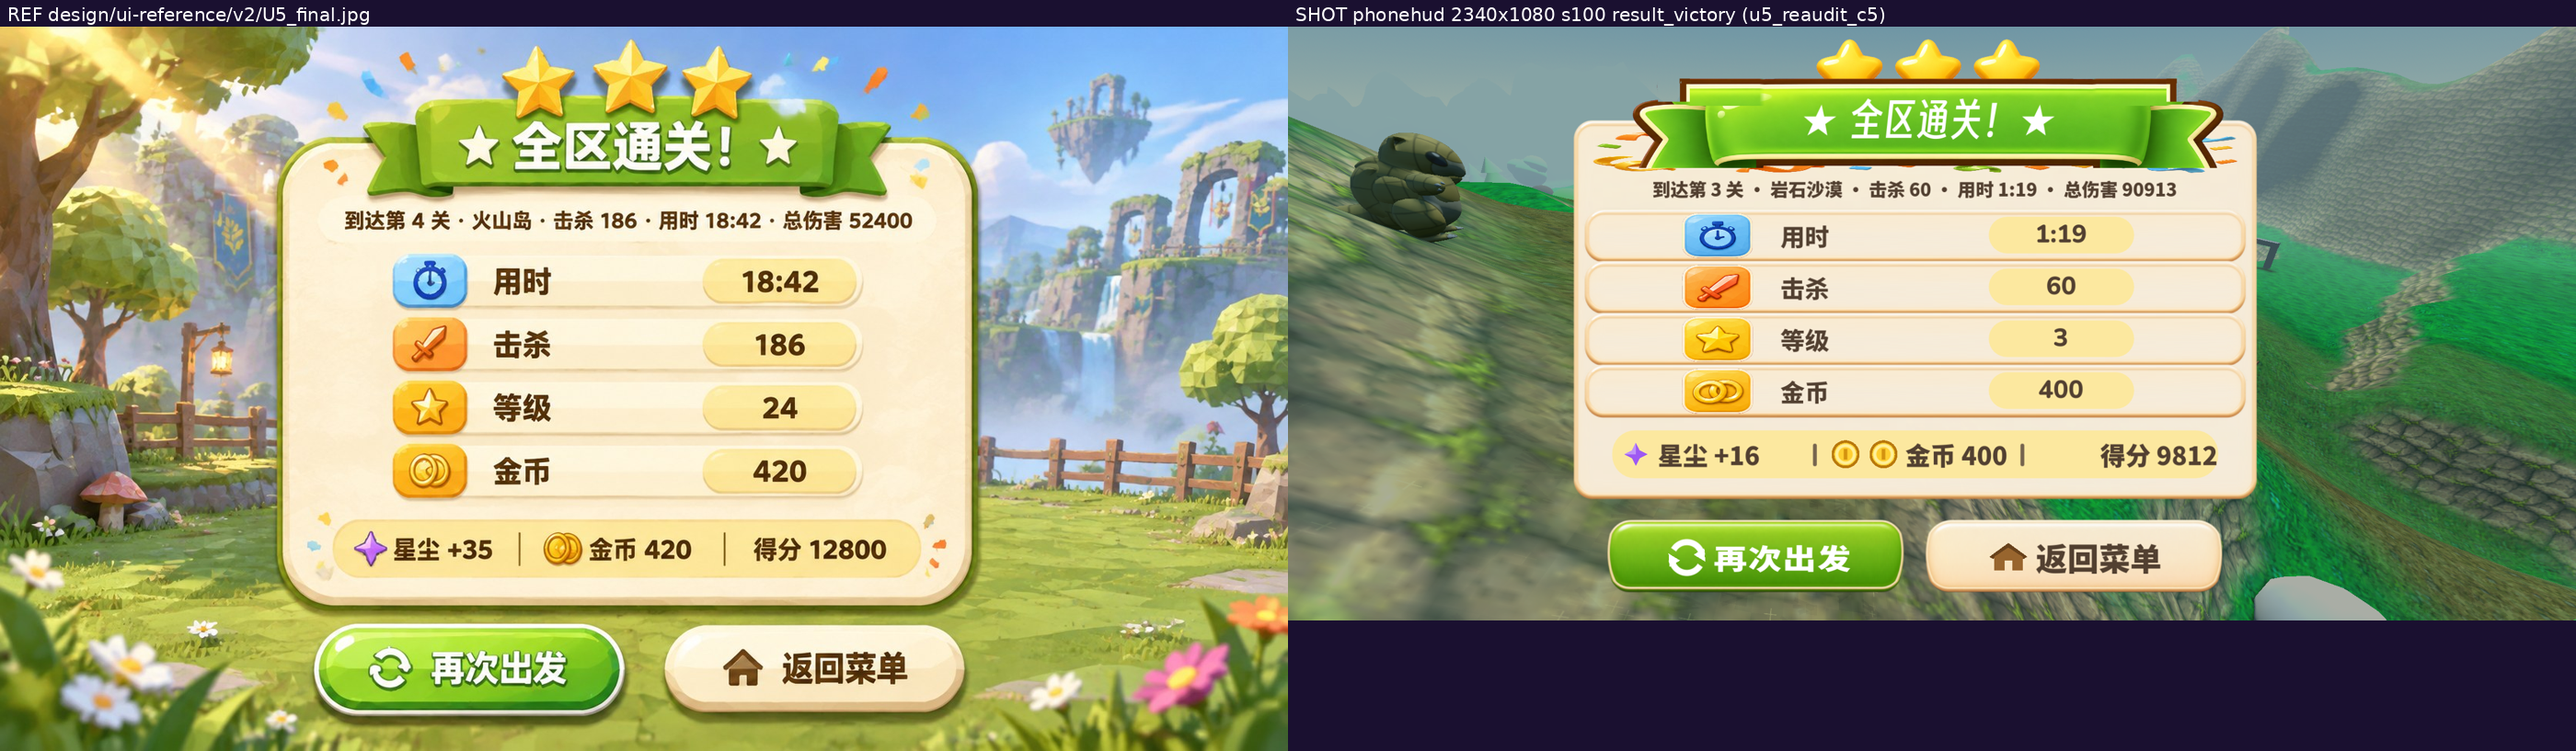
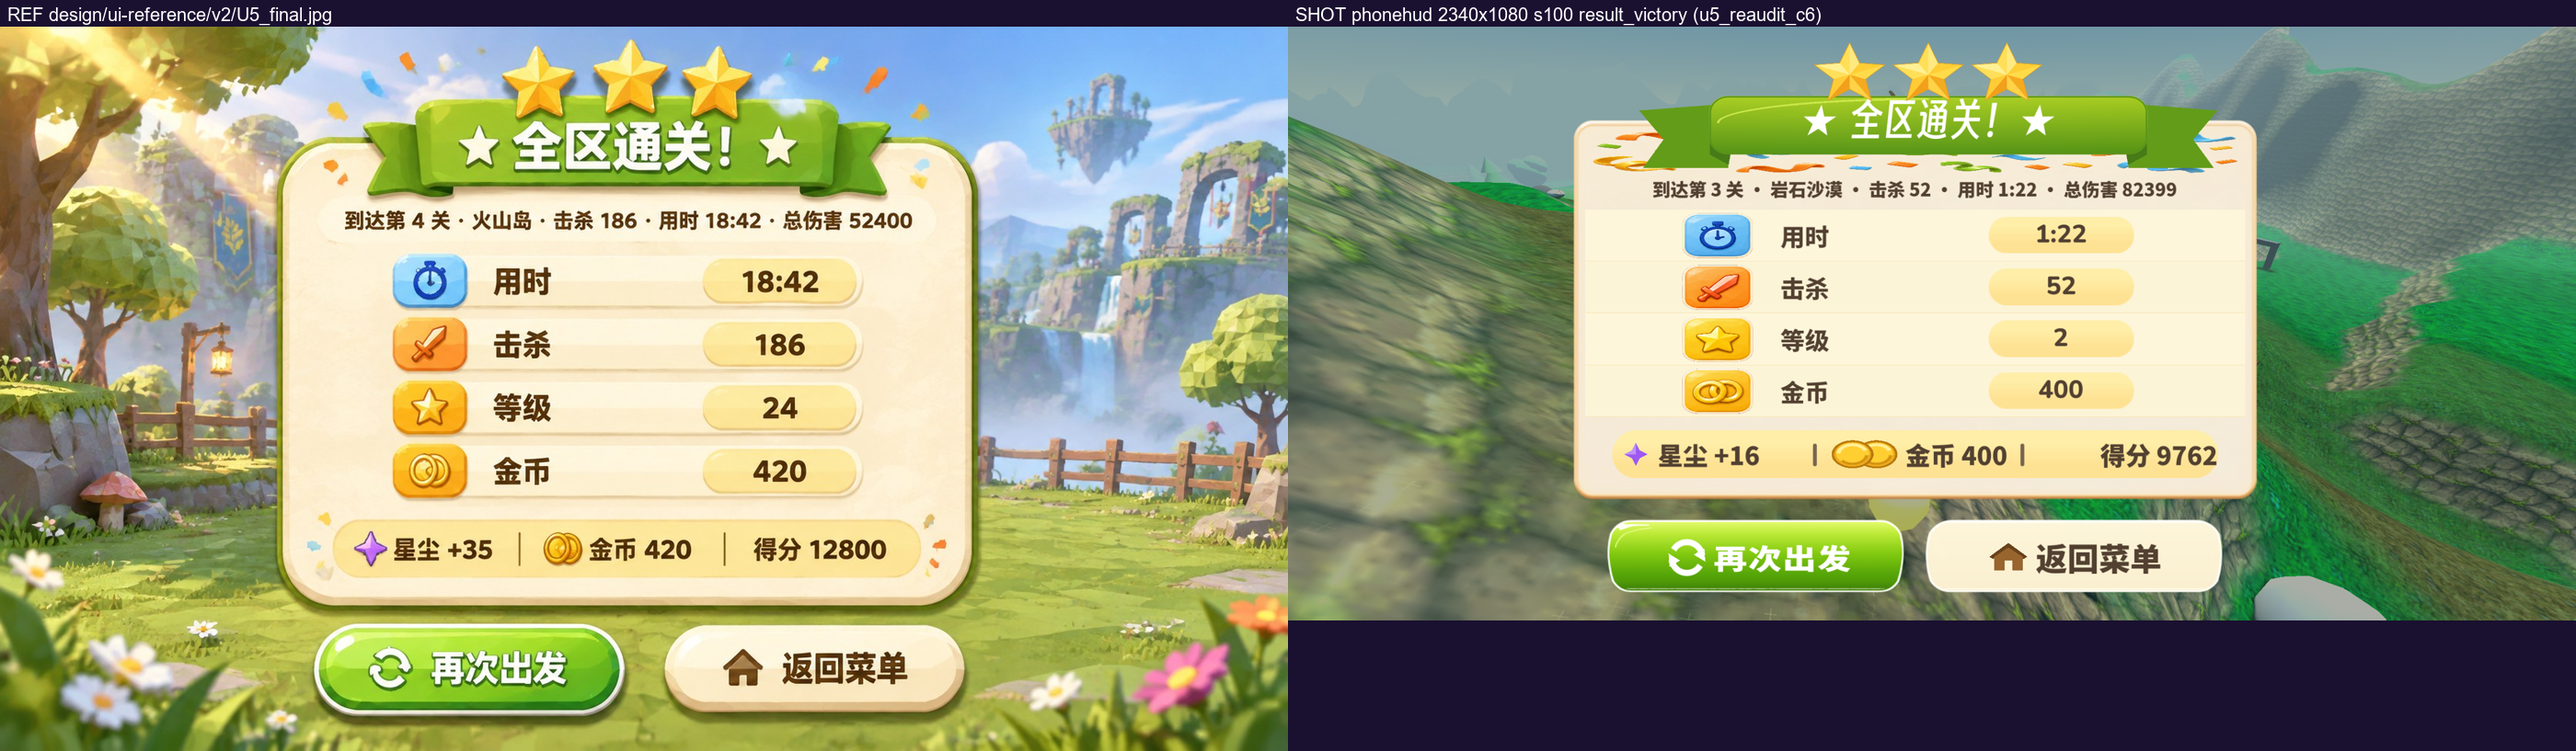
docs(ui): 完成 U5 第六轮复测、compare 重建与全局按钮回归复核
- 拉回 NUC 第六轮双档 s100 实拍原图与日志（2400: 1564/0, 2340: 1549/0）并完成全项同法像素复测
- 重建 design/ui-reference/compare/U5.png 与 U5_2400.png 并逐项亲检
- 明确记录未过关闭门原因（全局按钮 9-patch 尖刺与白高光异常、金币横向 1.5x 拉扁及 5.08%W 假目标勘误）并拟定第 7 轮处方

diff --git a/design/ui-alignment-progress.md b/design/ui-alignment-progress.md
@@ -1433,3 +1433,28 @@ U1 已重开，U3 不得开工（见「关闭门」）。第 9 轮：2340 复验
 - **批口径澄清**：Test/out/u5_reaudit_c6.done 末行虽写 BATCH FAILED，但双腿实为全绿——2400 腿 PHONEHUD DONE checks=1564 fails=0、2340 腿 1549/0。失败原因是 c6 run 脚本把 ALLDONE 条件写死为双腿各 1549，而 2400 腿本轮跑满横幅瞬态检查共 1564 项（计数随横幅时序在 1549/1564 间交替，判据应为 fails=0）。脚本计数 bug 在案，验收按 fails=0 计。
 - Codex 第六轮会话仍在跑（池内已轮换账号），后续若再落盘改动，须另行同步＋提交。
 - **未完**：同法复测（c6 量法六项）、compare 重建、主控亲检、U1 窄钮高光点名复核均未做；U5 未签核；U1 复审仍不开。
+
+## U5 复审 Codex 第六轮验收（2026-11-16 16:5x–17:0x，接手复测＋compare 重建＋亲检＋U1 复核）
+
+- 批产物与导入核验：拉回 NUC 第六轮双档 s100 实拍原始 PNG（`2340` md5 `8628456a09aaf3b7d1d94d492b329087`、`2400` md5 `119e1104637ad477584105f8eef35149`）及双日志（2400 `1564/0`、2340 `1549/0`，0 条 `SCRIPT ERROR` / `Parse Error` / `FAIL`）。本机 Godot 4.3 `--import` 与 NUC `u5_reaudit_c6_import_manifest.json` 逐字节核验一致（`p5_star_filled`/`p5_star_empty`/`p5_ribbon_green`/`button_green`/`button_cream`/`pill_gold` 六张纹理 `source_md5`、`dest_md5` 及 `.ctex` 字节数完全一致），三核心脚本 `--check-only` 全 `rc=0`。
+- 同法复测（原始 PNG vs 原始定稿 `design/ui-reference/v2/U5_final.jpg` 1672×941，PIL 行列扫描；脚本 `.tmp/u5_reaudit_c6_stars.py` / `btnpill.py` / `measure.py` / `u5_reaudit_c6_full_audit.py`，结果存 `.tmp/u5_reaudit_c6_full_audit.txt`）：
+  - ✅ **① 三星放大＋刻面（gold-mask 法）**：`2340` 三枚宽 `5.51 / 5.56 / 5.56%W`，主纵 run 高 **`9.81%H`**（目标 `9.7±0.4`，定稿 `9.35..9.78%H`），底尖入带 **`+0.74%H`**（目标 `+0.3..+1.0%H`）；`2400` 宽 `5.38 / 5.42 / 5.42%W`，高 **`9.81%H`**，入带 **`+0.74%H`**。悬空彻底消除，刻面三色锐利。注：左星 `y21.85%H` 仍受同列 `confetti_strip` 彩屑污染（`y_runs=2`），主纵 run 读数正常；细微残差为三枚顶边水平平齐，定稿中星略呈拱起（中星 `2.13..11.80%H`，比侧星高约 `0.7..1.1%H`）。
+  - ✅ **② 绿缎带（中心列绿法）**：`2340` & `2400` 均 `11.67..21.48%H`、高 **`9.91%H`**（目标 `9.9±0.6`，定稿 `9.88%H`）；带区棕线像素由粗边降至 `72`（2340）／`71`（2400）px（仅星底抗锯齿残留），去棕边＋薄折尾落地。
+  - ✅ **④ 值 pill＋汇总 pill 纵向金渐变**：避开数字取干净列扫描（`dy -12..+12`），`2340` & `2400` 四行值 pill 全部呈现均匀柔渐变 `[(254,236..237,165) .. (254,227,149..150)]`（`dG=9..10, dB=15..16`，端点均在定稿 ±8 内，达 `dG≥6, dB≥10`）；汇总 pill（`2340` `x=25.17..72.18%W` 边距 `L=2.61%W/R=2.61%W`；`2400` `x=25.79..71.58%W` 边距 `L=2.54%W/R=2.50%W`）渐变 `[(254,236,164) .. (254,227,150)]`（`dG=9, dB=14`），居中与留白保持。
+  - ✅ **⑤ 行带＋分隔线减淡（x=45%W R-B 剖面）**：`2340` & `2400` 基线 `34.0`，四处分隔线峰值整整齐齐全为 **`67`**（定稿 `66..72`），`>45` 杂峰 **`0`** 个（目标 ≤75 且无 >50 杂峰），重分隔线彻底消除。
+  - ❌ **③ 钮面光泽（绿钮＋奶油钮）未过门＋全局回归异常**：
+    - 实测：`2340`/`2400` 绿钮无字区（`x0.15/0.85`）均为 `[(191,235,59) .. (72,144,8)]`，顶部未达定稿明黄绿（`REF x0.15=(226,247,126)`, `x0.85=(197,241,68)`），且 `x0.15` 未覆盖高光；奶油钮实测 `[(253,245,218) .. (250,240,208)]`，暖平区间数值达标。
+    - U5 自身亲检（`.tmp/u5_c6_cmp_btns.png`）：两钮外廓因 `StyleBoxTexture` 9-patch 拉伸成**方肩圆角矩形**（定稿为**圆润半圆胶囊**）；绿钮左上角高光为**硬边缘锐角锯齿白色多边形＋下方斜白线**而非柔滑斜椭圆高光；绿/奶油钮最底缘各残留一条**孤立细白横线**；奶油钮缺乏左上高光与柔和底投影。
+    - **点名复核（全局按钮异常实锤，`.tmp/u5_c6_other_buttons_1x.png` / `mobile_p{1,5}_pause_status_2340x1080_s100_i0.png`）**：检查 `U1` 暂停页窄/扁型「继续」绿钮、「回主菜单」奶油钮，以及 `U6`「复制地址」「关闭」、商店「关闭」、`U3`「重抽/跳过/放弃」后确认：**全工程所有经 `UiTheme._btn_box()` 渲染且高度偏扁的按钮，左右两头均长出一对尖锐突出的“括弧尖刺/柠檬尖角”**，且「继续」钮左上角锐角白高光与底白线在扁钮上横斜撕裂，极为刺眼（`U2` 主菜单卡与资源胶囊不走 `_btn_box()` 9-patch，未受影响）。
+    - **根因查明**：`UiTheme.scaled_texture()` 将 `1024×320` 缩为 `256×80`（有效胶囊高 `64px`，`y=6..69`，水平中线在 **`y=38`**），而 `_btn_box()` 硬编码 `texture_margin_top=24, bottom=24, left=48, right=48`。当按钮实高 `<80` 时，中间区 `y=24..56`（含最凸左/右尖缘 `x=8/247`）被强行垂直压扁成数像素高的水平尖刺；旧版纹理（alpha 与新版逐像素一致，`max_diff=0`）因浅柔和外缘未显眼，第 6 轮把外描边改为高对比纯白硬边后，将一对纯白尖刺全面暴露于全屏窄/扁按钮上。
+  - ❌ **⑥ 金币内形交叠（6x 裁切＋历史 5.08%W 假目标勘误）**：
+    - 虽实现了右先左后交叠、去竖条与内弧光泽，但 `ui_icon.gd` 中 `Vector2(1.5, 1)` 横向拉伸将双币拉扁成 **1.5:1 扁椭圆鸭蛋**（`.tmp/u5_c6_cmp_coins6x.png` 与 1x `u5_c6_cmp_payout.png` 均明显宽肥失真），与定稿**两枚正圆交叠金币**形制明显不符。
+    - **历史量测误读勘误**：在原始 `U5_final.jpg`（1672×941）上按独立横向 run 重新扫描（`R>120, G 60..205, B<100, R-B>75`）证实：**定稿两枚正圆交叠金币的真实独立外框仅 `51×44 px = 3.05%W × 4.68%H`（`x 42.17..45.16%W`）**；第 4/5 轮所谓 `5.08%W`（`42.17..47.19%W`）实为 `dark-gold` mask 把紧邻金币右侧的深棕色汉字**「金」**（`45.75..47.49%W`, `30×30px`）一并吞入所致。我方为凑此假目标才将 `result_coins` 撑至 `88×61` 并横向拉扁为 `5.09%W × 4.72%H`（`119×51px`）。
+- 其余保持项复核：`2340`/`2400` 面板框（`22.52..74.83%W`/`23.21..74.17%W`）、标题白字高（`6.67%H`）、tile1 左缘（`30.81%W`/`30.83%W`）、行心（`35.05/43.80/52.50/61.25%H`）、行标签字高（`3.80%H`）、汇总星高（`3.80%H`）、钮面字高（绿 `4.35%H`、奶油 `5.00%H`/`4.35%H`）全部保持，汇总字号未动。
+- `compare` 重建与亲检：`design/ui-reference/compare/U5.png`（MD5 `6832b5a279a287391feb3835f2b638d2`）与 `design/ui-reference/compare/U5_2400.png`（MD5 `2b9e21eae58aa0ab347a4d0801b75b2c`）已以第六轮双档原图重建（标签 `u5_reaudit_c6`），逐张并排看过；局部裁切 `.tmp/u5_c6_cmp_{crest,btns,payout,rows,coins6x}.png`、`.tmp/u5_c6_other_buttons_1x.png`、`.tmp/u5_c6_menu_btns_1x.png` 逐一看过。
+- **结论：U5 未过关闭门，不签核；U1 复审仍不开；Notion 对齐单未动。** 建议第 7 轮处方（待主控裁定后派单）：
+  1. **按钮 9-patch 根治＋重绘**：调整 `UiTheme._btn_box()` 9-patch 边距到缩后胶囊水平中线（`y=38`，如 `top=38, bottom=42, left=44, right=44`）或改为垂直自适应真半圆胶囊机制，彻底消除全屏扁/窄钮左右尖刺与 U5 方肩矩形感；重绘 `button_green.png` / `button_cream.png` 去除锐角多边形白斑与底白线，绿钮顶部提亮至黄绿（`G≈245, R≈210..226`）配柔和斜椭圆白高光，奶油钮补左上柔高光与立体投影（并按全局回归网核对 U1 窄继续钮）。
+  2. **金币正圆还原**：移除 `ui_icon.gd` `result_coins` 的 `Vector2(1.5, 1)` 横向拉伸，按勘误后的定稿正圆真值 **`3.05%W × 4.68%H`**（`51×44` 比例）重定两圆间距与 Control 宽度（保留左压右交叠与内弧光泽），并修正金币验收 mask 避开「金」字。
+  3. （待主控酌情决定）是否微抬 P5 中星约 `0.7%H` 以复现定稿轻微拱形，以及清理或减淡顶部 `confetti_strip` 彩屑以消左星同列污染。
+- 本轮提交：本节台账＋重建的 `design/ui-reference/compare/U5.png` 与 `U5_2400.png`（仅此三文件；量测脚本/结果/裁切图留 `.tmp/` 未入库）。
+
